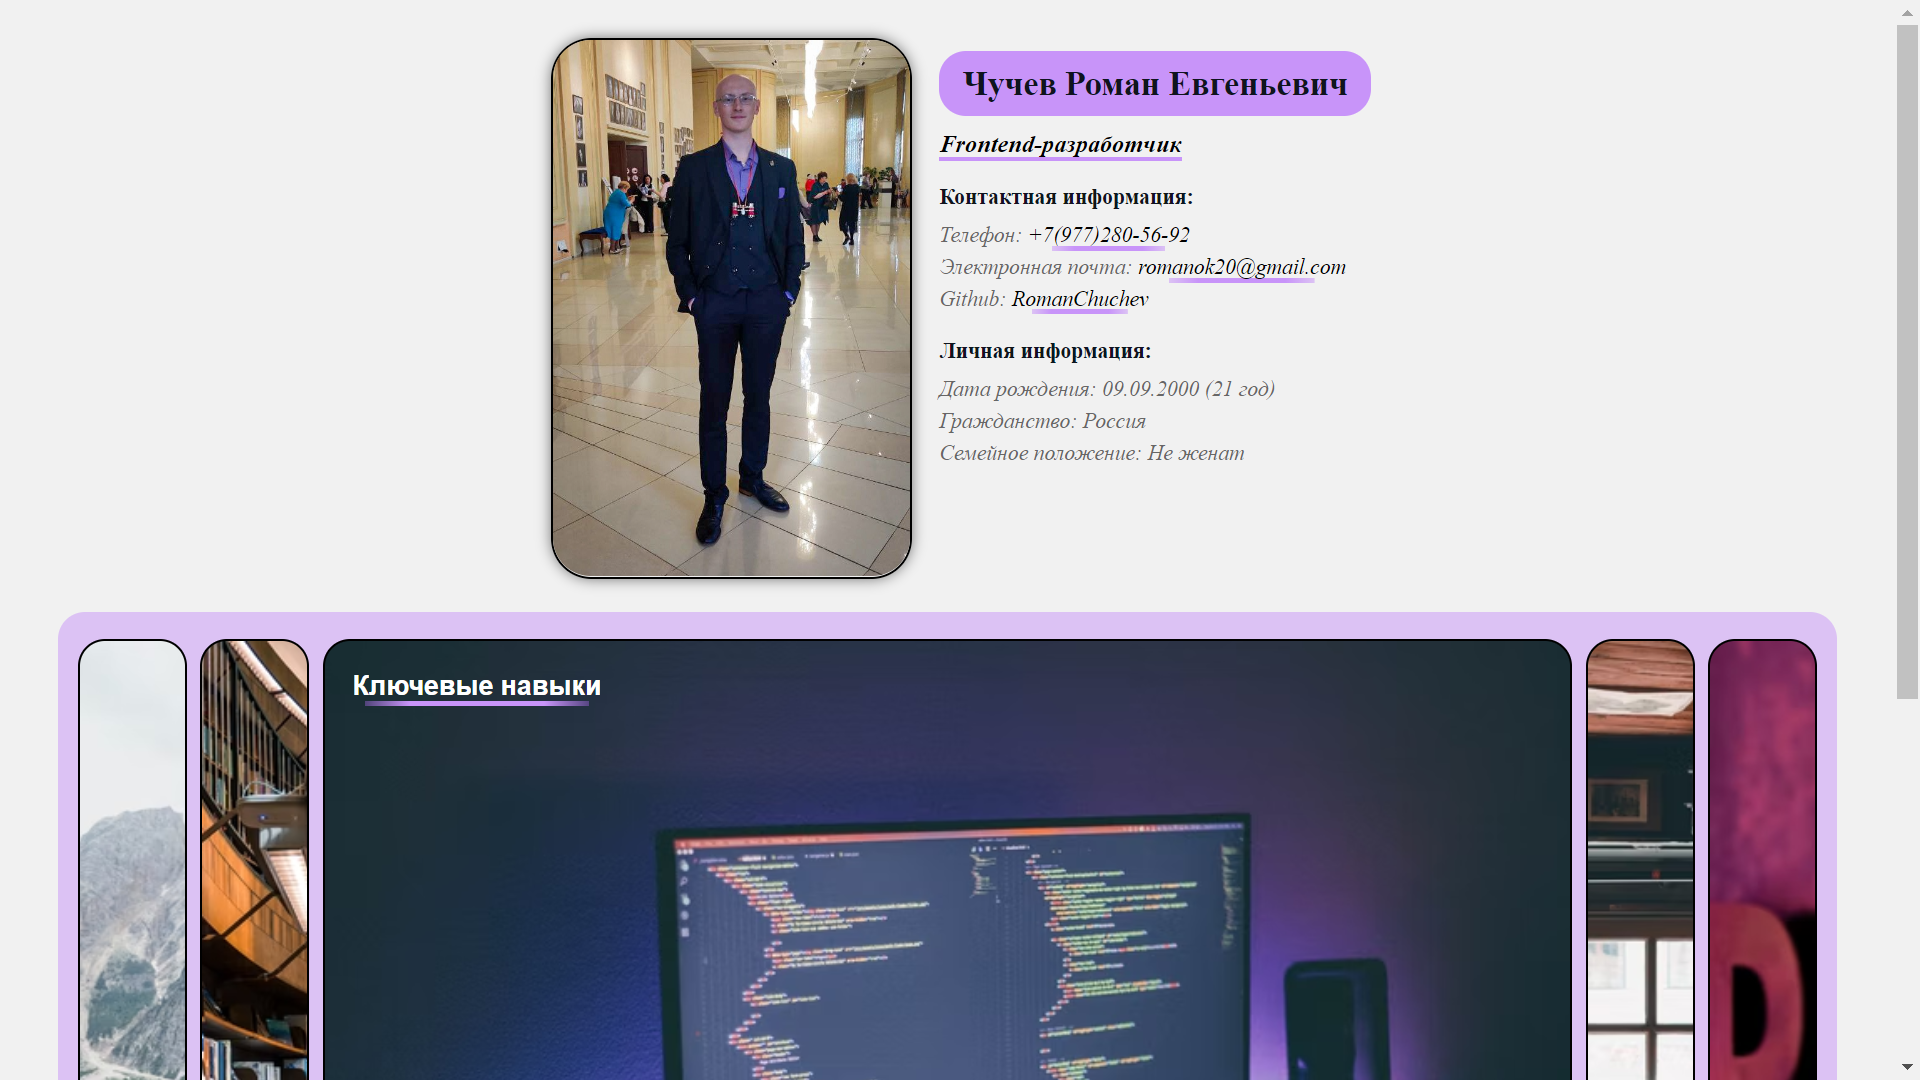
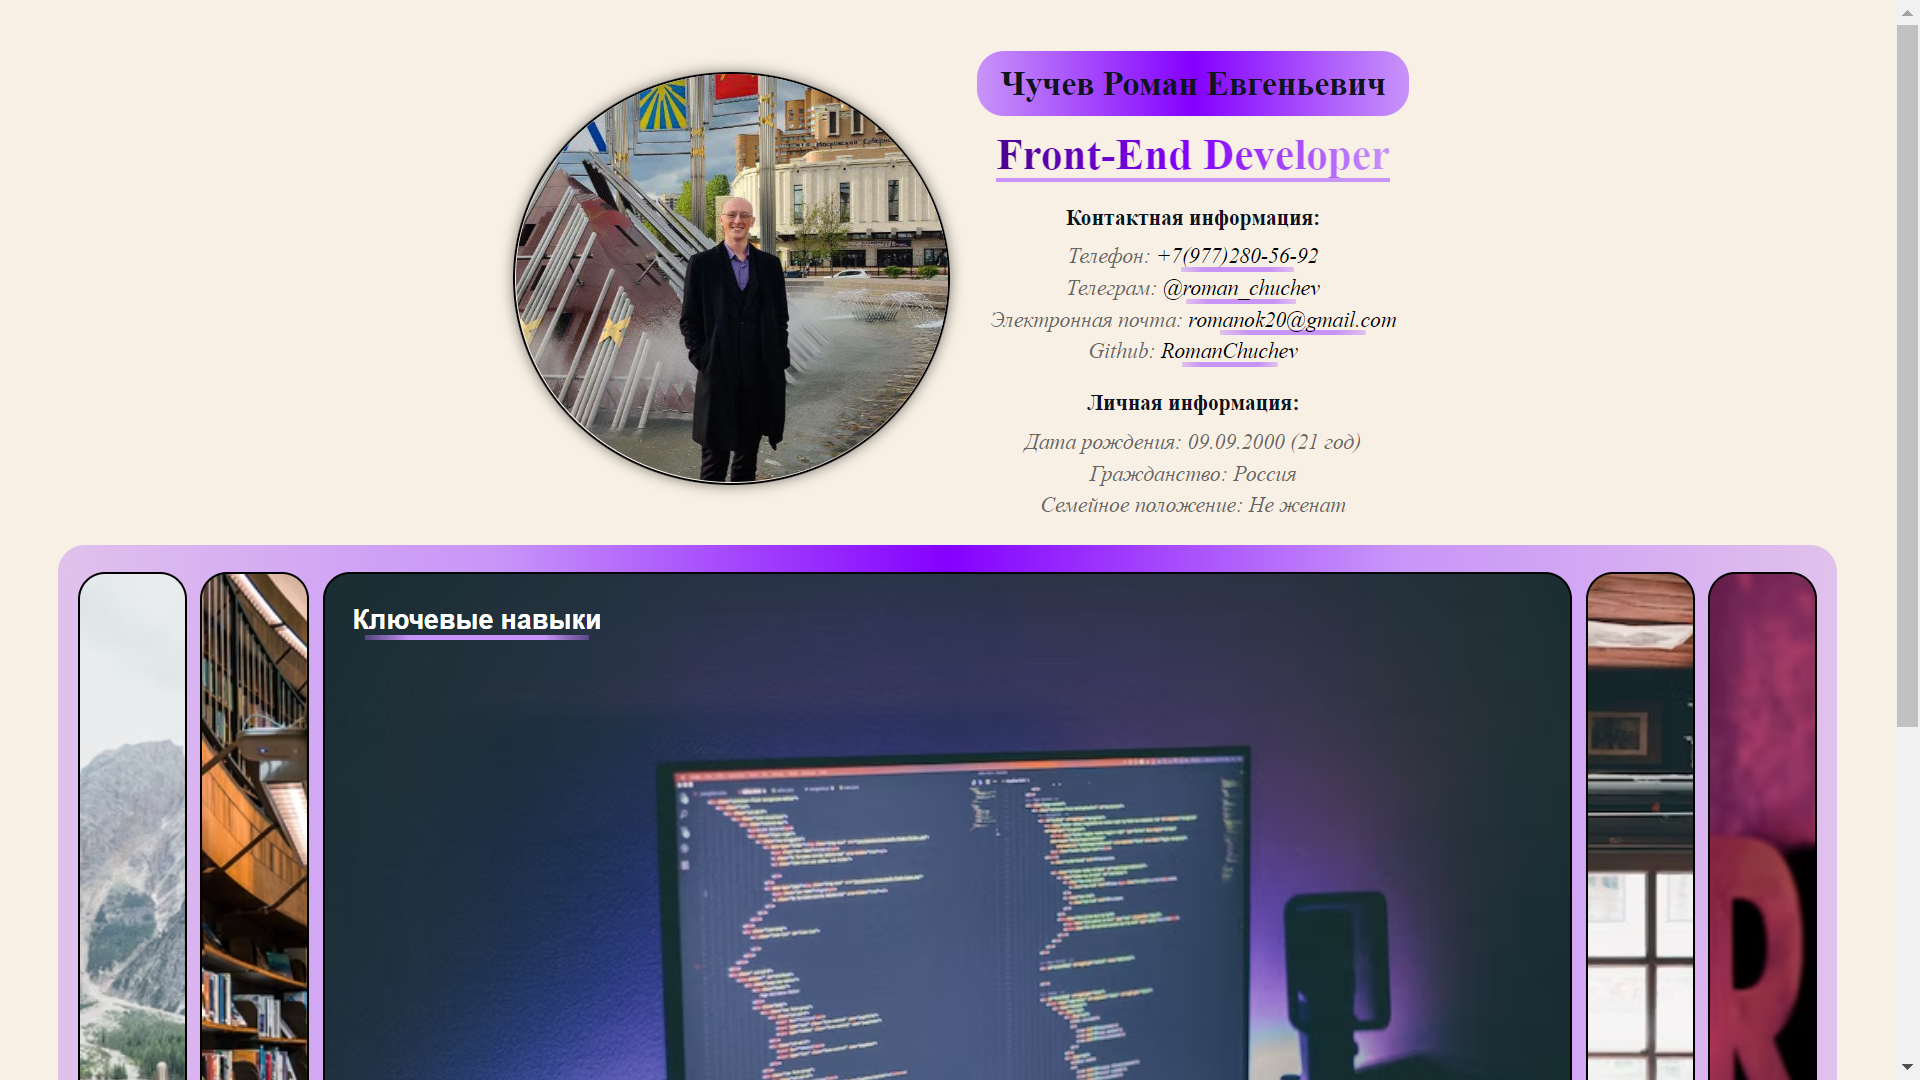
Add screenshots

diff --git a/README.md b/README.md
@@ -1,5 +1,7 @@
 # <h1 align="center">My-SV</h1>
 
-# <img src="./screenshots.png" width="100%">
+# <h2 align="center"><a  href="https://romanchuchev.github.io/My-CV/">Live Demo</a></h2>
 
- <h2 align="center"><a  href="https://romanchuchev.github.io/My-CV/">Demo</a></h2>
+# <a  href="https://romanchuchev.github.io/My-CV/"><img src="./screenshots.png" width="100%"></a>
+
+# <a  href="https://romanchuchev.github.io/My-CV/"><img src="./screenshots2.png" width="100%"></a>
